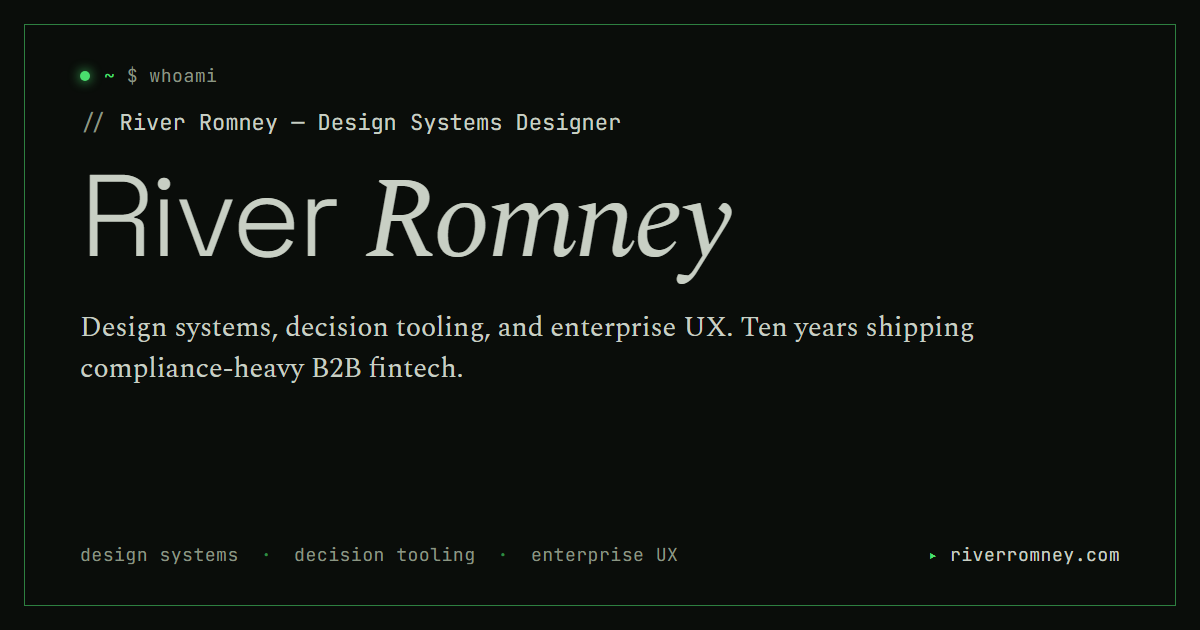
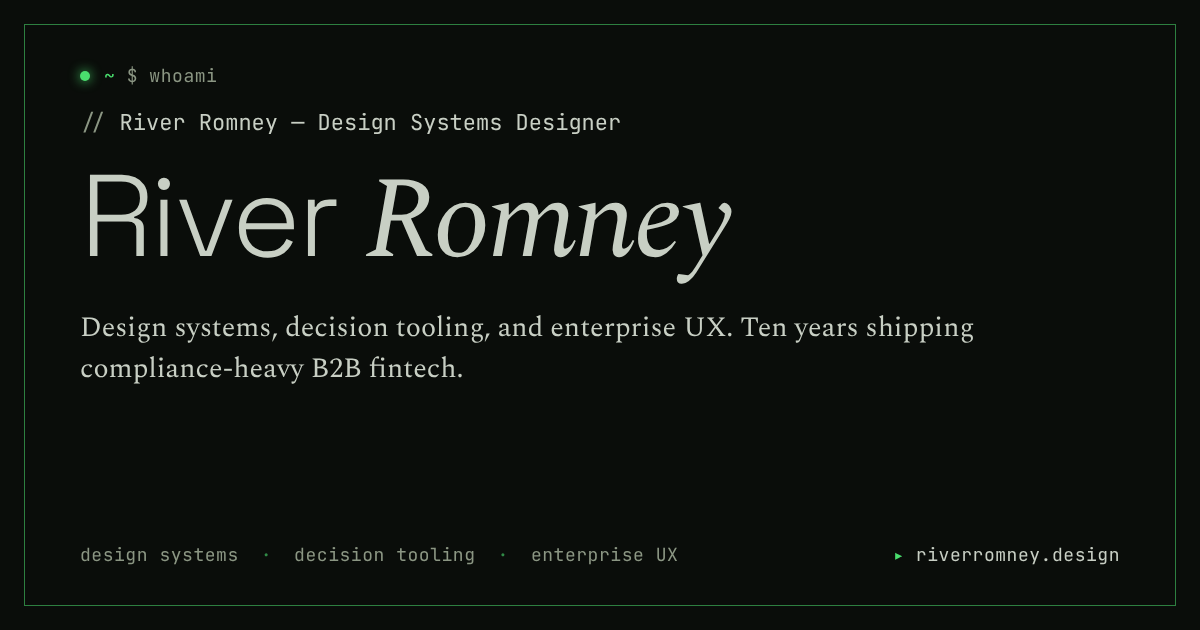
Point site URL and OG card at riverromney.design (#113)
portfolio-vercel serves riverromney.design (the only domain attached to the
Vercel project), but NEXT_PUBLIC_SITE_URL is unset there, so metadataBase fell
back to riverromney.com. Every page advertised .com as its canonical, og:url
and og:image host.

- app/layout.tsx: fallback SITE_URL -> https://riverromney.design
- scripts/generate-og.mjs: card footer reads riverromney.design; launch the
  bundled browser via PLAYWRIGHT_CHROMIUM_PATH like render-diagrams.mjs
- public/og.png: re-rendered (only the footer domain changed)

Claude-Session: https://claude.ai/code/session_01H4srD39xTsVbBz4FqtjpGR

diff --git a/app/layout.tsx b/app/layout.tsx
@@ -35,7 +35,7 @@ const jetbrainsMono = JetBrains_Mono({
 
 // Site URL — set NEXT_PUBLIC_SITE_URL in Vercel env to River's production domain.
 const SITE_URL =
-  process.env.NEXT_PUBLIC_SITE_URL ?? "https://riverromney.com";
+  process.env.NEXT_PUBLIC_SITE_URL ?? "https://riverromney.design";
 
 const DESCRIPTION =
   "Principal Designer working at the intersection of design systems, decision tooling, and enterprise UX. Ten years shipping compliance-heavy B2B fintech.";
